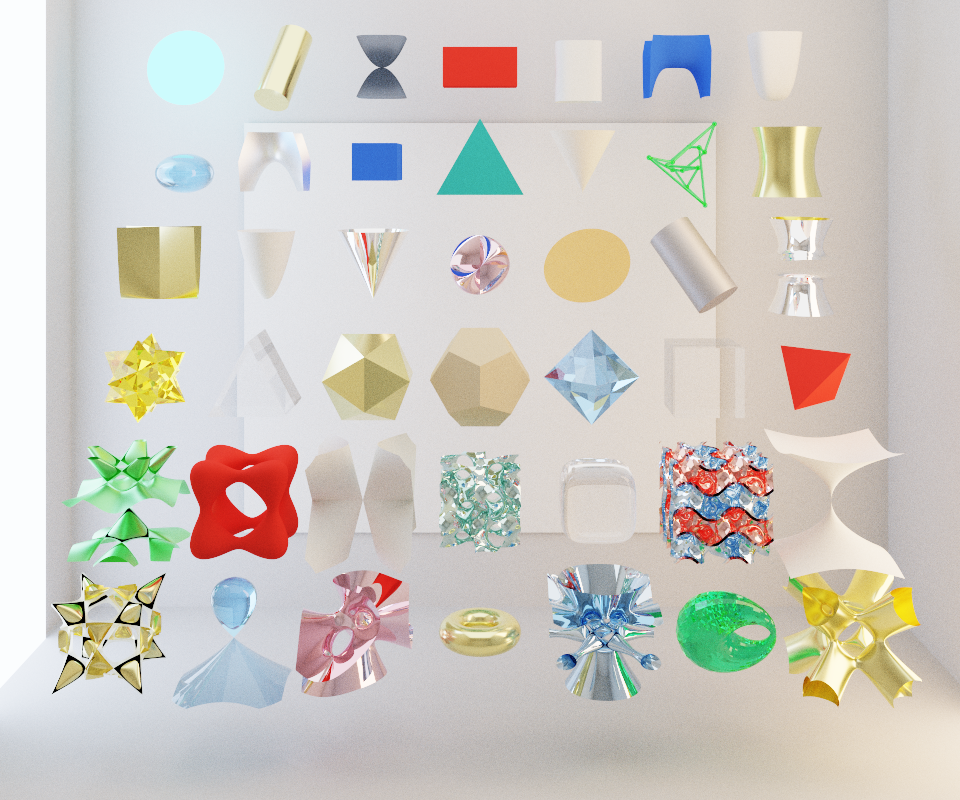
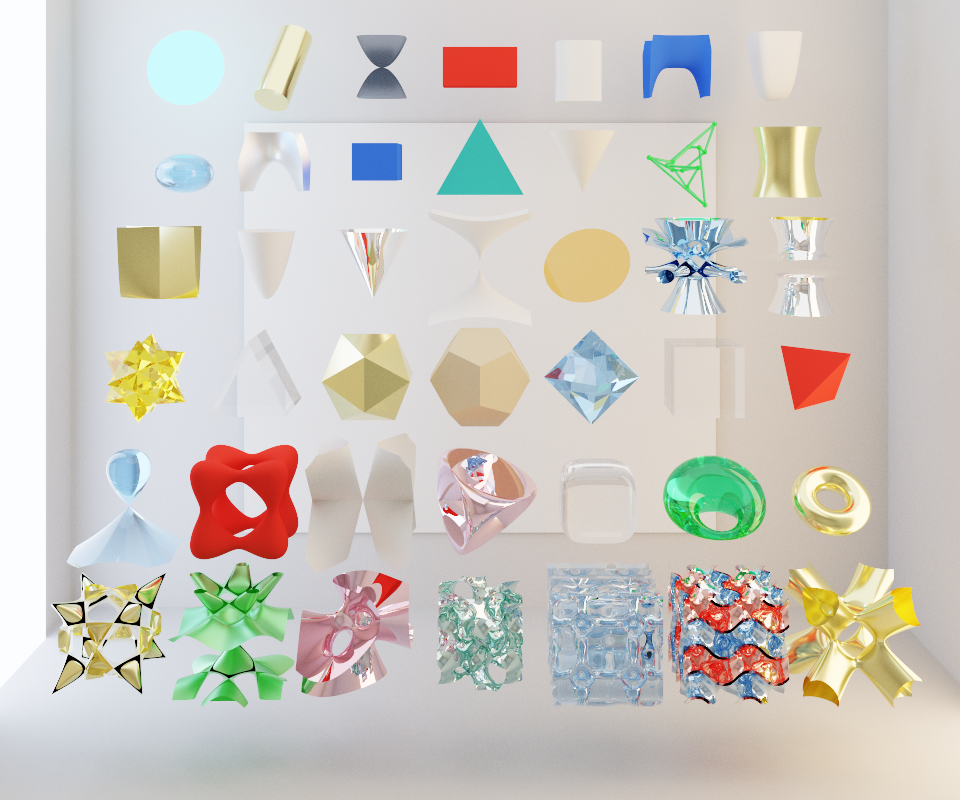
init

diff --git a/examples/scenes/geometry-benchmark-matrix/GEOMETRY_BENCHMARK_MATRIX.md b/examples/scenes/geometry-benchmark-matrix/GEOMETRY_BENCHMARK_MATRIX.md
@@ -4,6 +4,56 @@ This document describes the visible geometry cells in the `geometry-benchmark-ma
 
 Formula convention: unless noted otherwise, $x,y,z$ are local coordinates after the object's `center` and `scale` transform. Algebraic and implicit surfaces are written locally as $F(x,y,z)=0$. The Formula / Definition column records the intrinsic geometric identity of the cell: shape class, degree, radii/side lengths, topology, or combinatorics, without material or renderer-specific details.
 
+
+
+r6-c1: Barth sextic surface
+r6-c2: Togliatti quintic surface
+r6-c3: Clebsch diagonal cubic surface
+r6-c4: Gyroid minimal-surface
+r6-c5: Chmutov surface / Banchoff form
+r6-c6: Interlocked double Gyroid
+r6-c7: Kummer surface  
+
+r5-c1: Ding-Dong surface / bell-shaped self-intersecting cubic
+r5-c2: Tanglecube
+r5-c3: Singular Quartic Surface with a Double Line
+r5-c4: Roman surface
+r5-c5: L^4-unit superellipsoid
+r5-c6: Dupin cyclide
+r5-c7: Torus  
+
+r4-c1: Small stellated dodecahedron
+r4-c2: Triangular prism
+r4-c3: Regular icosahedron
+r4-c4: Regular dodecahedron
+r4-c5: Regular Octahedron
+r4-c6: Cube
+r4-c7: Regular Tetrahedron  
+
+r3-c1: Whitney-umbrella surface
+r3-c2: Elliptic paraboloid quadric
+r3-c3: Vertical cone
+r3-c4: Surface of revolution by parabola
+r3-c5: Circle
+r3-c6: Togliatti / Dervish quintic nodal surface
+r3-c7: Anisotropic quartic torus / spindle surface  
+
+r2-c1: Ellipsoid
+r2-c2: Hyperbolic paraboloid quadric
+r2-c3: Rectangular cuboid
+r2-c4: Triangle
+r2-c5: Elliptic quadric / clipped ellipsoid-like surface
+r2-c6: Szilassi polyhedron
+r2-c7: Hyperboloid quadric  
+
+r1-c1: Circle
+r1-c2: Oblique cylinder
+r1-c3: Quartic elliptic cylinder / quartic cone section
+r1-c4: Rectangular cuboid
+r1-c5: Superellipse quartic column
+r1-c6: Quartic saddle sheet
+r1-c7: Quartic elliptic paraboloid
+
 ## Row 1
 
 | Cell | Mathematical Geometry | Formula / Definition | Material |